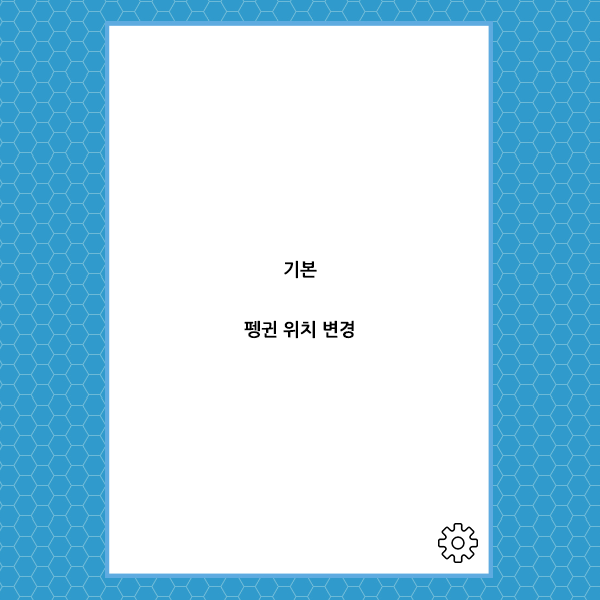
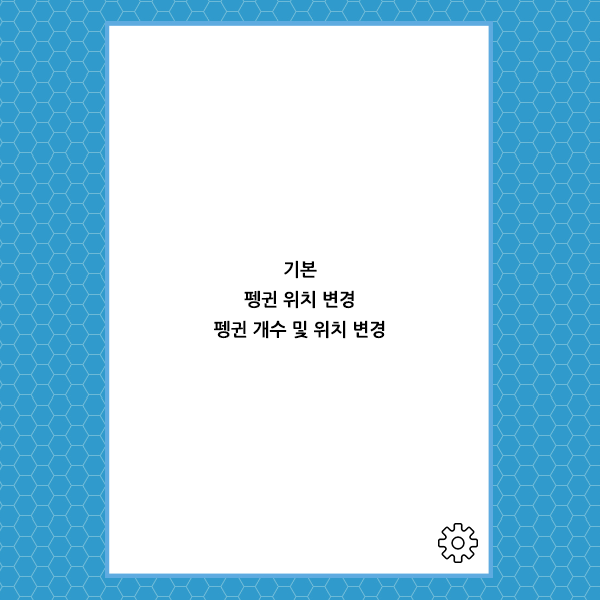
2018-05-07 backup: 펭귄개수변경 완성

Changed region(s): [[0.36, 0.48, 0.66, 0.57]]

diff --git a/render.py b/render.py
@@ -12,16 +12,22 @@ WHITE = (255, 255, 255)
 PLAYER1 = 0
 PLAYER2 = 1
 
+MODE_BASE = 1
+MODE_POS = 2
+MODE_NUM = 3
+
 # 이미지 로드
 IMGBOX = {  'start': pygame.image.load('picture/start.png'),
             'start_text': pygame.image.load('picture/start_text.png'),
             'setting': [pygame.image.load('picture/setting.png'),
                         pygame.image.load('picture/setting_mode1.png'),
-                        pygame.image.load('picture/setting_mode2.png')],
+                        pygame.image.load('picture/setting_mode2.png'),
+                        pygame.image.load('picture/setting_mode3.png')],
             'setting_btn': [pygame.image.load('picture/setting_btn_in.png'),
                             pygame.image.load('picture/setting_btn_out.png')],
             'board': pygame.image.load('picture/board.png'),
-            'board_text': pygame.image.load('picture/board_text.png'),
+            'board_text_pos': pygame.image.load('picture/board_text_pos.png'),
+            'board_text_num': pygame.image.load('picture/board_text_num.png'),
             'penguin': pygame.image.load('picture/penguin_cute.png'),
             'selected': [pygame.image.load('picture/selected1.png'),
                          pygame.image.load('picture/selected2.png')],
@@ -32,6 +38,11 @@ IMGBOX = {  'start': pygame.image.load('picture/start.png'),
             'end': [pygame.image.load('picture/end1.png'),
                     pygame.image.load('picture/end2.png')]
          }
+
+# key 번호 딕셔너리
+K_NUMBOX = {K_1: 1, K_2: 2, K_3: 3,
+            K_4: 4, K_5: 5, K_6: 6,
+            K_7: 7, K_8: 8, K_9: 9}
 
 # pygame 초기화
 pygame.init()
@@ -59,16 +70,16 @@ def blink_text(timer, img_name):
 
 # 세팅 버튼 위에 마우스 놓였는지 반환
 def is_setting_hover(pos):
-    posx, posy = pos
-    if posx>=438 and posx<=477 and posy>=523 and posy<=562:
+    x, y = pos
+    if 438 <= x <=477 and 523 <= y <= 562:
         return True
     else:
         return False
 
 
 # 블록이 제거가능한지 판단
-def is_deletable(num, center):
-    if num==WALL or num==center or IS_BLOCK_DELETED[num]:
+def is_deletable(num, p_poses):
+    if num==WALL or num in p_poses or IS_BLOCK_DELETED[num]:
         return False
     else:
         return True
@@ -83,9 +94,10 @@ def next_turn(turn):
 
 
 # 게임 종료 조건 확인
-def is_game_over(center):
-    if IS_BLOCK_DELETED[center]:
-        return True
+def is_game_over(p_poses):
+    for p_pos in p_poses:
+        if IS_BLOCK_DELETED[p_pos]:
+            return True
     else:
         return False
 
@@ -107,21 +119,20 @@ def draw_deleted():
 
 
 # 펭귄 그리기
-def draw_penguin(num):
+def draw_penguin(p_poses):
     PENGUINWID_HALF = PENGUINHEI_HALF = 33
-
-    posx, posy = BLOCKPOSBOX[num]
-    posx = posx + BLOCKWID/2 - PENGUINWID_HALF
-    posy = posy + BLOCKHEI/2 - PENGUINHEI_HALF
-    DISPLAYSURF.blit(IMGBOX['penguin'], (posx, posy))
+    for p_pos in p_poses:
+        x, y = BLOCKPOSBOX[p_pos]
+        x = x + BLOCKWID/2 - PENGUINWID_HALF
+        y = y + BLOCKHEI/2 - PENGUINHEI_HALF
+        DISPLAYSURF.blit(IMGBOX['penguin'], (x, y))
 
 
 # 좌표로부터 설정번호 반환
 def get_setting_num_at_pos(pos):
     SETTEXTWID = 110
     SETTEXTHEI = 19
-    SETPOSBOX = [(244, 260), (244, 320)]
-    # 원래 mode2: (244, 290)
+    SETPOSBOX = [(244, 260), (244, 290), (244, 320)]
 
     for set_num in range(len(SETPOSBOX)):
         left, top = SETPOSBOX[set_num]

diff --git a/main.py b/main.py
@@ -62,15 +62,38 @@ def setting():
         FPSCLOCK.tick(FPS)
 
 
-# 펭귄 위치 반환
-def get_center(game_mode):
-    if game_mode != 2:
-        return CENTER
+# 펭귄 개수 반환
+def get_penguin_num(mode):
+    if mode < MODE_NUM:
+        return 1
 
     timer = 0
     while True:
-        DISPLAYSURF.blit(IMGBOX['board_text'], (0, 0))
+        DISPLAYSURF.blit(IMGBOX['board_text_num'], (0, 0))
         timer = blink_text(timer, 'board')
+
+        for event in pygame.event.get():
+            if event.type == QUIT or (event.type == KEYUP and event.key == K_ESCAPE):
+                terminate()
+            elif event.type == KEYDOWN:
+                if event.key in K_NUMBOX:
+                    return K_NUMBOX[event.key]
+
+        pygame.display.update()
+        FPSCLOCK.tick(FPS)
+
+
+# 펭귄 위치 반환
+def get_penguin_poses(mode, p_num):
+    if mode < MODE_POS:
+        return [CENTER]
+
+    p_poses = []
+    timer = 0
+    while len(p_poses) < p_num:
+        DISPLAYSURF.blit(IMGBOX['board_text_pos'], (0, 0))
+        timer = blink_text(timer, 'board')
+        draw_penguin(p_poses)
         is_clicked = False
         mouse_pos = pygame.mouse.get_pos()
 
@@ -82,26 +105,29 @@ def get_center(game_mode):
 
         block_num = get_block_num_at_pos(mouse_pos)
 
-        if block_num != WALL:
+        if block_num != WALL and block_num not in p_poses:
             if is_clicked:
-                return block_num
+                p_poses.append(block_num)
             else:
-                draw_penguin(block_num)
+                draw_penguin([block_num])
 
         pygame.display.update()
         FPSCLOCK.tick(FPS)
 
+    return p_poses
+
 
 # 메인 루프
 def run_game(game_mode):
-    game_over = False
-    center = get_center(game_mode)
+    penguin_num = get_penguin_num(game_mode)
+    penguin_poses = get_penguin_poses(game_mode, penguin_num)
     turn = random.choice([PLAYER1, PLAYER2])
 
+    game_over = False
     while not game_over:
         DISPLAYSURF.blit(IMGBOX['board'], (0, 0))
         DISPLAYSURF.blit(IMGBOX['player_icon'][turn], (0, 0))
-        draw_penguin(center)
+        draw_penguin(penguin_poses)
         draw_deleted()
 
         is_clicked = False
@@ -115,15 +141,15 @@ def run_game(game_mode):
 
         block_num = get_block_num_at_pos(mouse_pos)
 
-        if not is_clicked and is_deletable(block_num, center):
+        if not is_clicked and is_deletable(block_num, penguin_poses):
             draw_selected(block_num, turn)
-        if is_clicked and is_deletable(block_num, center):
+        if is_clicked and is_deletable(block_num, penguin_poses):
             delete_block(block_num)
             turn = next_turn(turn)
             # todo temp
             show_sur_cnt()
 
-        game_over = is_game_over(center)
+        game_over = is_game_over(penguin_poses)
         pygame.display.update()
         FPSCLOCK.tick(FPS)
 
